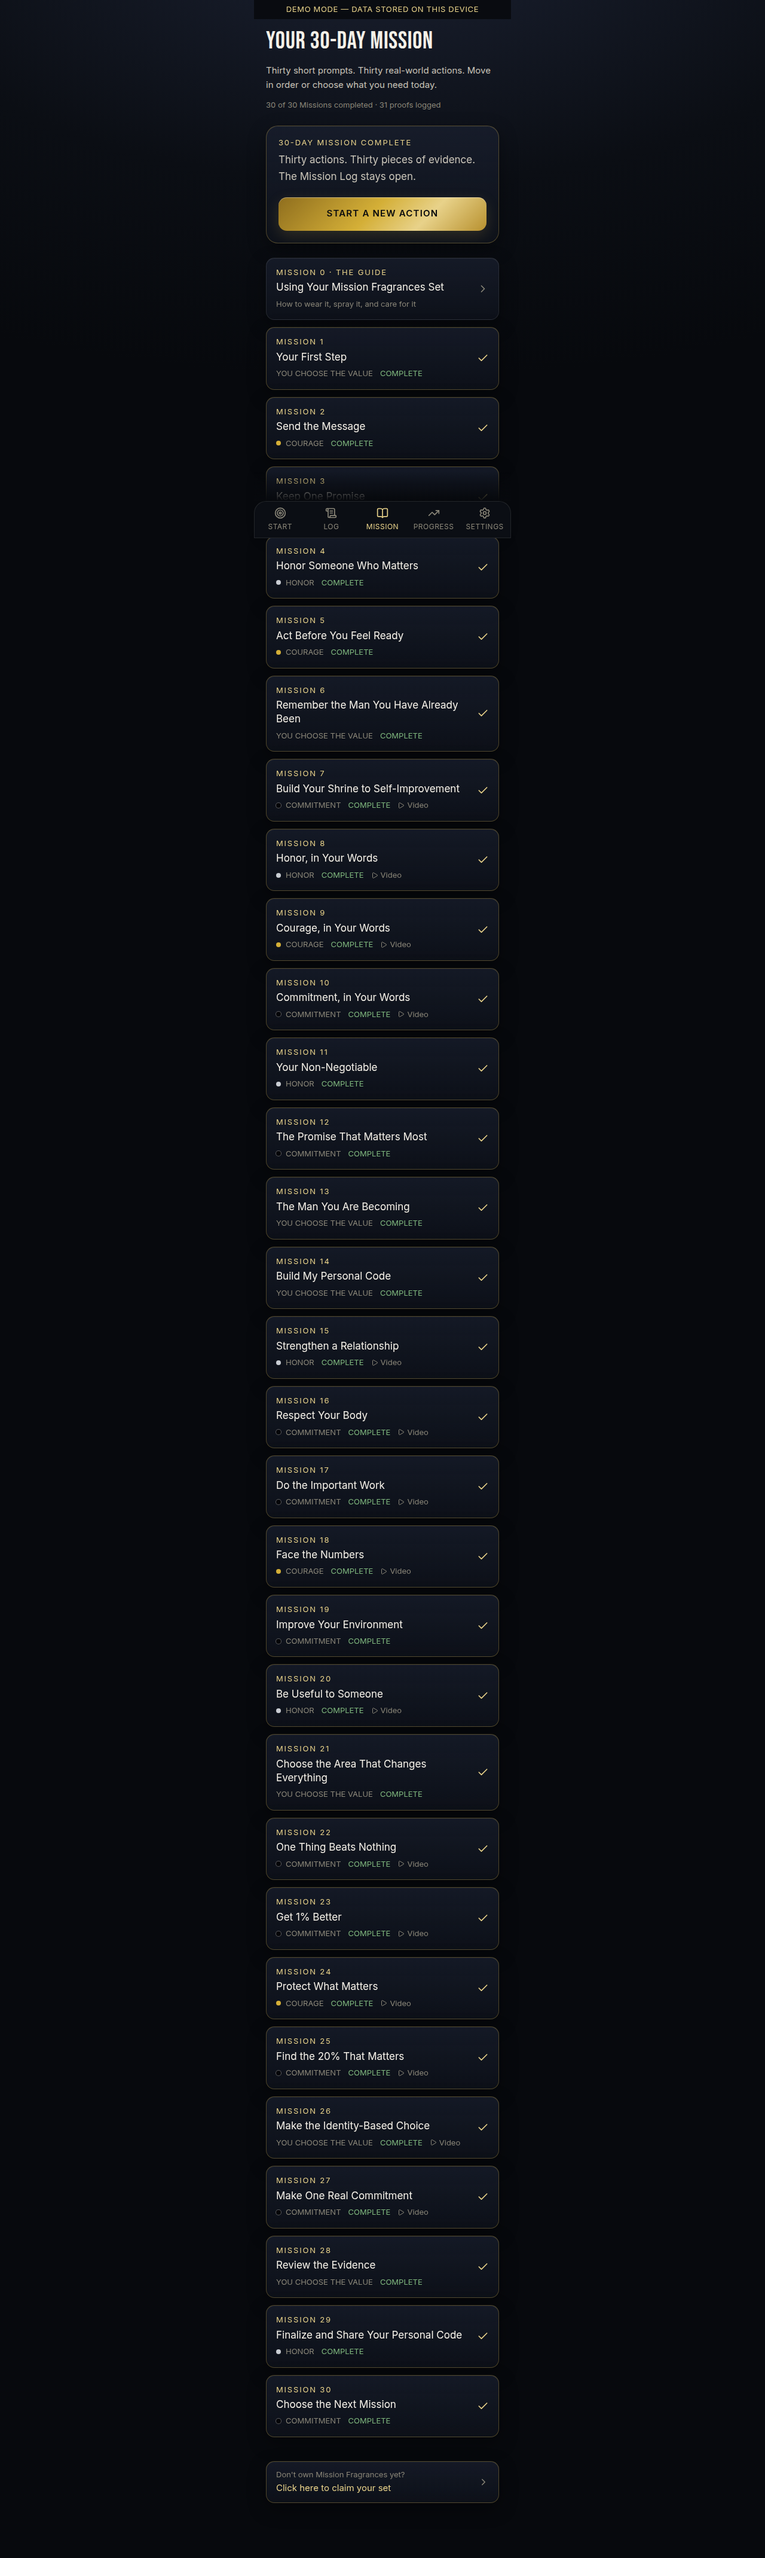
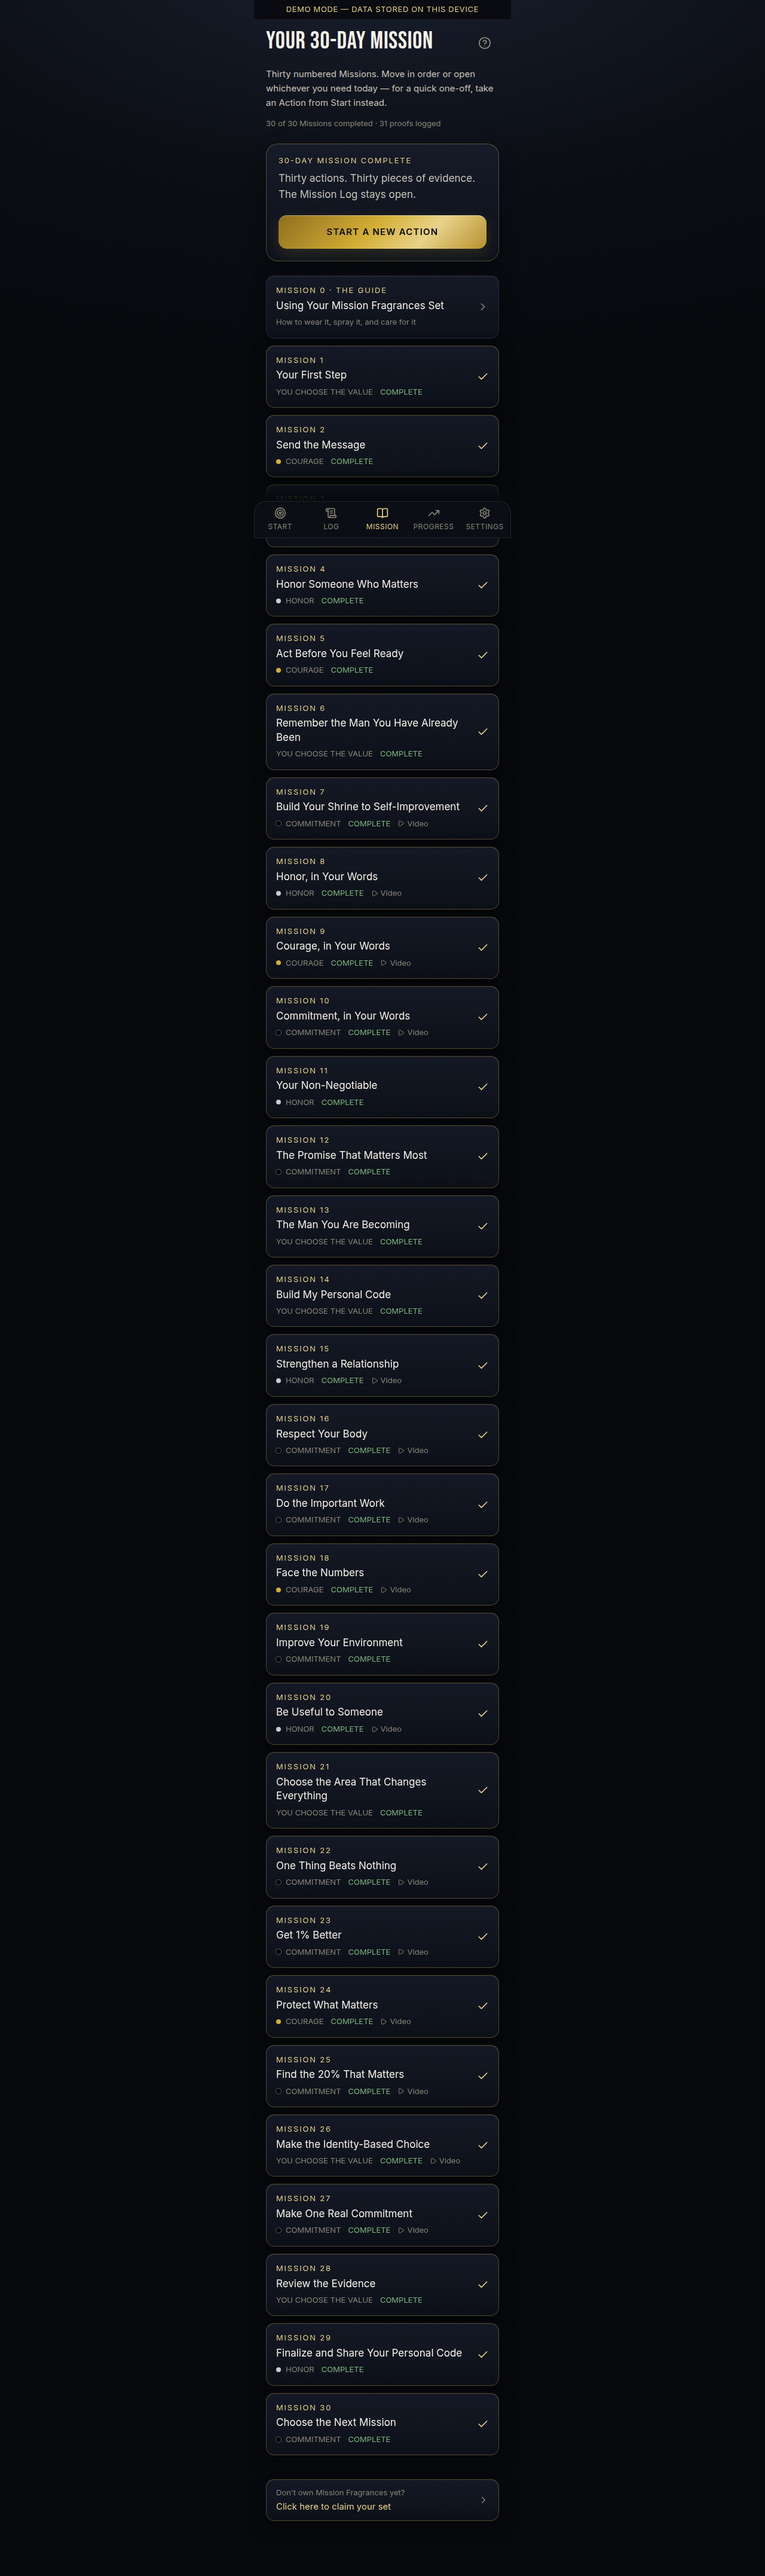
Missions vs Actions: one word per vertical, labeled Start sections, help sheet
The two verticals both said 'Mission', which read as one confusing thing.
Now: the thirty numbered ones are MISSIONS; anything launched from Start is
an ACTION.

- Free-form flow renamed throughout: START MISSION -> TAKE ACTION, MISSION
  ACTIVE -> ACTION IN PROGRESS, PERSONAL MISSION -> PERSONAL ACTION, log
  empty state -> TAKE ACTION, 'Open Mission' -> 'Open Action', and the
  fragrance cards read 'Take a Courage Action'.
- Start restructured into two labeled sections: '1 · YOUR 30-DAY MISSION'
  (thirty numbered steps, in order, at your pace) and '2 · TAKE AN ACTION'
  (a one-off any time), each with a one-line explainer.
- New HelpSheet behind a '?' in the Start and Mission headers: what an
  Action is, what a Mission is, and that both count as proof.
- Mission list intro now points to Start for one-offs.
- Onboarding: 'Learn about the fragrances' link removed (redundant beside
  the per-value videos).
- 30/30 state no longer has a button that led to the Mission list; it
  points at the fragrance cards below instead.

Version 1.2.0. Lint, tsc, build clean; walkthrough passing.

Claude-Session: https://claude.ai/code/session_01WVgj5E7JPb9xgPaaNWkVw6

Changed region(s): [[0.3438, 0.0, 0.6562, 0.9638], [0.5312, 0.9016, 0.5938, 0.9327], [0.625, 0.7772, 0.6562, 0.8083]]

diff --git a/src/app/(app)/home/page.tsx b/src/app/(app)/home/page.tsx
@@ -5,6 +5,7 @@ import Link from "next/link";
 import { useRouter } from "next/navigation";
 import { useEffect } from "react";
 import BuyRow from "@/components/BuyRow";
+import HelpSheet from "@/components/HelpSheet";
 import ProofCounts from "@/components/ProofCounts";
 import TriggerCard from "@/components/TriggerCard";
 import Wordmark from "@/components/Wordmark";
@@ -84,7 +85,7 @@ function StatusCard({
                   variant="ghost"
                   onClick={() => router.push(`/mission/active/${active.id}`)}
                 >
-                  Open Mission
+                  Open Action
                 </Button>
               )}
             </div>
@@ -93,9 +94,9 @@ function StatusCard({
       );
     });
 
-    if (single) return <div className="mt-6">{cards}</div>;
+    if (single) return <div className="mt-4">{cards}</div>;
     return (
-      <div className="-mx-5 mt-6 snap-x snap-mandatory overflow-x-auto px-5">
+      <div className="-mx-5 mt-4 snap-x snap-mandatory overflow-x-auto px-5">
         <div className="flex gap-3 pr-5">{cards}</div>
       </div>
     );
@@ -104,7 +105,7 @@ function StatusCard({
   // State A — the set is still on the way.
   if (profile.set_status === "ordered") {
     return (
-      <GlassCard key="state-a" className="mt-6 border-[rgba(201,166,72,.35)]">
+      <GlassCard key="state-a" className="mt-4 border-[rgba(201,166,72,.35)]">
         <Eyebrow tone="gold">YOUR SET IS ON THE WAY</Eyebrow>
         <p className="font-display mt-3 text-[22px] leading-tight text-ink-0">
           Explore Your 30-Day Mission
@@ -131,19 +132,18 @@ function StatusCard({
 
   const next = nextMissionNumber(missions);
 
-  // State D — all thirty Missions are complete.
+  // State D — all thirty Missions are complete. No button: the fragrance
+  // cards directly below ARE the next action.
   if (next === null) {
     return (
-      <GlassCard key="state-d" className="mt-6 border-[rgba(201,166,72,.35)]">
+      <GlassCard key="state-d" className="mt-4 border-[rgba(201,166,72,.35)]">
         <Eyebrow tone="gold">30-DAY MISSION COMPLETE</Eyebrow>
         <p className="font-display mt-3 text-[22px] leading-tight text-ink-0">
           Keep Building the Evidence
         </p>
-        <div className="mt-5">
-          <Button onClick={() => router.push("/missions")}>
-            START A NEW ACTION
-          </Button>
-        </div>
+        <p className="mt-3 text-[15px] text-ink-1">
+          Pick a fragrance below and keep logging proof.
+        </p>
       </GlassCard>
     );
   }
@@ -152,7 +152,7 @@ function StatusCard({
   const def = getMissionDef(next);
   if (!def) return null;
   return (
-    <Link href={`/missions/${def.number}`} className="mt-6 block">
+    <Link href={`/missions/${def.number}`} className="mt-4 block">
       <GlassCard key={`state-b-${def.number}`} className="border-[rgba(201,166,72,.35)]">
         <Eyebrow tone="gold">NEXT MISSION · MISSION {def.number}</Eyebrow>
         <p className="font-display mt-3 text-[22px] leading-tight text-ink-0">
@@ -236,36 +236,50 @@ export default function HomePage() {
 
   return (
     <main className="pt-4">
-      <div className="flex items-center justify-between gap-3">
+      <div className="flex items-center justify-between gap-2">
         <Wordmark />
-        {missions && stats.missionsCompleted > 0 && (
-          <span className="glass eyebrow rounded-full px-3 py-2 text-gold-300">
-            {stats.missionsCompleted}/{MISSION_COUNT} MISSIONS
-          </span>
-        )}
+        <div className="flex shrink-0 items-center gap-1">
+          {missions && stats.missionsCompleted > 0 && (
+            <span className="glass eyebrow rounded-full px-3 py-2 text-gold-300">
+              {stats.missionsCompleted}/{MISSION_COUNT} MISSIONS
+            </span>
+          )}
+          <HelpSheet />
+        </div>
       </div>
 
-      {profile && missions && (
-        <StatusCard profile={profile} missions={missions} />
-      )}
-
       {missions && lessonResponses && !guideDone && <GuideCard done={false} />}
-
-      <Headline className="mt-6">WHAT DO YOU NEED TODAY?</Headline>
 
       {!missions ? (
         <Skeleton />
       ) : (
         <>
-          <div className="mt-6 space-y-3">
-            {TRIGGER_ORDER.map((trigger) => (
-              <TriggerCard
-                key={trigger}
-                trigger={trigger}
-                href={`/mission/declare?trigger=${trigger}`}
-              />
-            ))}
-          </div>
+          {/* Two clearly separated paths. 1 — the numbered journey. */}
+          <section className="mt-7">
+            <Eyebrow tone="gold">1 · YOUR 30-DAY MISSION</Eyebrow>
+            <p className="mt-2 text-[14px] leading-snug text-ink-2">
+              Thirty numbered steps, in order, at your pace.
+            </p>
+            {profile && <StatusCard profile={profile} missions={missions} />}
+          </section>
+
+          {/* 2 — the everyday launcher. */}
+          <section className="mt-9">
+            <Eyebrow tone="gold">2 · TAKE AN ACTION</Eyebrow>
+            <Headline className="mt-2">WHAT DO YOU NEED TODAY?</Headline>
+            <p className="mt-2 text-[14px] leading-snug text-ink-2">
+              A one-off action any time. Pick the value, do it, log the proof.
+            </p>
+            <div className="mt-5 space-y-3">
+              {TRIGGER_ORDER.map((trigger) => (
+                <TriggerCard
+                  key={trigger}
+                  trigger={trigger}
+                  href={`/mission/declare?trigger=${trigger}`}
+                />
+              ))}
+            </div>
+          </section>
 
           <div className="mt-8">
             <ProofCounts stats={stats} />

diff --git a/src/components/HelpSheet.tsx b/src/components/HelpSheet.tsx
@@ -1,0 +1,70 @@
+"use client";
+
+import { HelpCircle } from "lucide-react";
+import Link from "next/link";
+import { useState } from "react";
+import Button from "@/components/ui/Button";
+import Sheet from "@/components/ui/Sheet";
+
+/**
+ * The one screen that keeps the two verticals straight: numbered Missions
+ * (the 30-day path) vs. Actions (a one-off from Start). Opened by the "?"
+ * in the Start header — never blocks anything.
+ */
+export default function HelpSheet() {
+  const [open, setOpen] = useState(false);
+
+  return (
+    <>
+      <button
+        type="button"
+        aria-label="What's the difference between a Mission and an Action?"
+        onClick={() => setOpen(true)}
+        className="flex h-12 w-12 shrink-0 items-center justify-center text-ink-2"
+      >
+        <HelpCircle size={22} aria-hidden />
+      </button>
+
+      <Sheet
+        open={open}
+        title="MISSIONS & ACTIONS"
+        onClose={() => setOpen(false)}
+      >
+        <div className="space-y-4 text-left">
+          <div>
+            <p className="eyebrow text-gold-300">AN ACTION</p>
+            <p className="mt-1.5 text-[15px] leading-relaxed text-ink-1">
+              One real thing you do today. Pick a fragrance on this screen,
+              choose or write the action, wear the scent, do it, and log the
+              proof. Take as many as you like, any day.
+            </p>
+          </div>
+
+          <div>
+            <p className="eyebrow text-gold-300">A MISSION</p>
+            <p className="mt-1.5 text-[15px] leading-relaxed text-ink-1">
+              One of the thirty numbered steps in the Mission tab. Each gives
+              you an idea, a question, and suggested actions. A Mission is
+              complete when you log the proof — reading it does nothing.
+            </p>
+          </div>
+
+          <div>
+            <p className="eyebrow text-gold-300">BOTH COUNT</p>
+            <p className="mt-1.5 text-[15px] leading-relaxed text-ink-1">
+              Every completed Action and Mission lands in your Mission Log as
+              proof. Only the thirty numbered ones move your 30-Mission count.
+            </p>
+          </div>
+        </div>
+
+        <Link href="/how-it-works" className="block" onClick={() => setOpen(false)}>
+          <Button variant="secondary">SEE HOW IT WORKS</Button>
+        </Link>
+        <Button variant="ghost" onClick={() => setOpen(false)}>
+          Got it
+        </Button>
+      </Sheet>
+    </>
+  );
+}

diff --git a/src/app/(app)/missions/page.tsx b/src/app/(app)/missions/page.tsx
@@ -4,6 +4,7 @@ import { Check, ChevronRight, Play } from "lucide-react";
 import Link from "next/link";
 import { useEffect } from "react";
 import BuyRow from "@/components/BuyRow";
+import HelpSheet from "@/components/HelpSheet";
 import Button from "@/components/ui/Button";
 import Eyebrow, { AccentDot } from "@/components/ui/Eyebrow";
 import GlassCard from "@/components/ui/GlassCard";
@@ -124,10 +125,13 @@ export default function MissionListPage() {
 
   return (
     <main className="pt-4">
-      <Headline>YOUR 30-DAY MISSION</Headline>
+      <div className="flex items-start justify-between gap-2">
+        <Headline>YOUR 30-DAY MISSION</Headline>
+        <HelpSheet />
+      </div>
       <p className="mt-4 text-[15px] leading-relaxed text-ink-1">
-        Thirty short prompts. Thirty real-world actions. Move in order or choose
-        what you need today.
+        Thirty numbered Missions. Move in order or open whichever you need
+        today — for a quick one-off, take an Action from Start instead.
       </p>
       <p className="mt-3 text-[13px] text-ink-2">
         {stats.missionsCompleted} of {MISSION_COUNT} Missions completed ·{" "}

diff --git a/src/components/onboarding/OnboardingScreens.tsx b/src/components/onboarding/OnboardingScreens.tsx
@@ -1,7 +1,5 @@
 "use client";
 
-import { ArrowRight } from "lucide-react";
-import Link from "next/link";
 import BottleVisual from "@/components/BottleVisual";
 import MissionVideo from "@/components/MissionVideo";
 import NavAction from "@/components/NavAction";
@@ -125,13 +123,6 @@ export default function OnboardingScreens({
               );
             })}
           </div>
-          <Link
-            href="/using-your-set"
-            className="mt-4 flex min-h-12 items-center gap-2 text-[15px] text-gold-300"
-          >
-            Learn about the fragrances
-            <ArrowRight aria-hidden size={16} />
-          </Link>
           <BottomActions className="mt-6">
             <Button onClick={onNext}>NEXT</Button>
           </BottomActions>

diff --git a/src/components/MissionRow.tsx b/src/components/MissionRow.tsx
@@ -44,7 +44,7 @@ export default function MissionRow({ mission }: { mission: Mission }) {
       </div>
 
       <p className="eyebrow mt-3 text-gold-300">
-        {def ? `MISSION ${def.number} · ${def.title.toUpperCase()}` : "PERSONAL MISSION"}
+        {def ? `MISSION ${def.number} · ${def.title.toUpperCase()}` : "PERSONAL ACTION"}
       </p>
       <p className="mt-1.5 line-clamp-2 text-[17px] text-ink-0">
         {mission.action_text}

diff --git a/src/app/mission/active/[id]/page.tsx b/src/app/mission/active/[id]/page.tsx
@@ -169,7 +169,7 @@ export default function ActiveMissionPage({
         <Eyebrow accent={mission.trigger}>
           {TRIGGERS[mission.trigger].name}
         </Eyebrow>
-        <Headline className="mt-3">MISSION ACTIVE</Headline>
+        <Headline className="mt-3">ACTION IN PROGRESS</Headline>
         <p className="font-display mt-6 text-[28px] leading-tight text-ink-0">
           {mission.action_text}
         </p>

diff --git a/src/app/mission/checkin/[id]/page.tsx b/src/app/mission/checkin/[id]/page.tsx
@@ -91,7 +91,7 @@ export default function CheckinPage({
 
         {view === "not-yet" ? (
           <h1 className="mt-4 text-[22px] leading-snug text-ink-0">
-            That&apos;s okay. The Mission isn&apos;t over.
+            That&apos;s okay. The action isn&apos;t done yet.
           </h1>
         ) : view === "yes" ? (
           <>

diff --git a/src/components/TriggerCard.tsx b/src/components/TriggerCard.tsx
@@ -43,7 +43,7 @@ export default function TriggerCard({
   return (
     <Link
       href={href}
-      aria-label={`Start a ${meta.name[0]}${meta.name.slice(1).toLowerCase()} Mission`}
+      aria-label={`Take a ${meta.name[0]}${meta.name.slice(1).toLowerCase()} Action`}
       className="block"
     >
       <GlassCard accent={trigger}>

diff --git a/src/app/(app)/log/page.tsx b/src/app/(app)/log/page.tsx
@@ -52,7 +52,7 @@ export default function LogPage() {
             body="Take one small action today."
             action={
               <Button onClick={() => router.push("/home")}>
-                START A MISSION
+                TAKE ACTION
               </Button>
             }
           />

diff --git a/src/app/mission/trigger/page.tsx b/src/app/mission/trigger/page.tsx
@@ -113,7 +113,7 @@ function TriggerScreen({ missions }: { missions: Mission[] }) {
 
       <BottomActions className="pt-10">
         <Button loading={pending} onClick={start}>
-          START MISSION
+          TAKE ACTION
         </Button>
       </BottomActions>
     </main>
